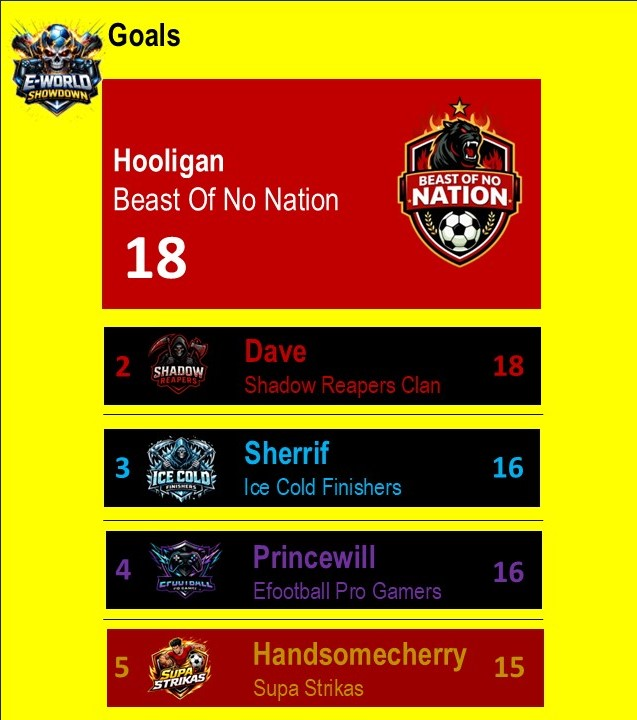
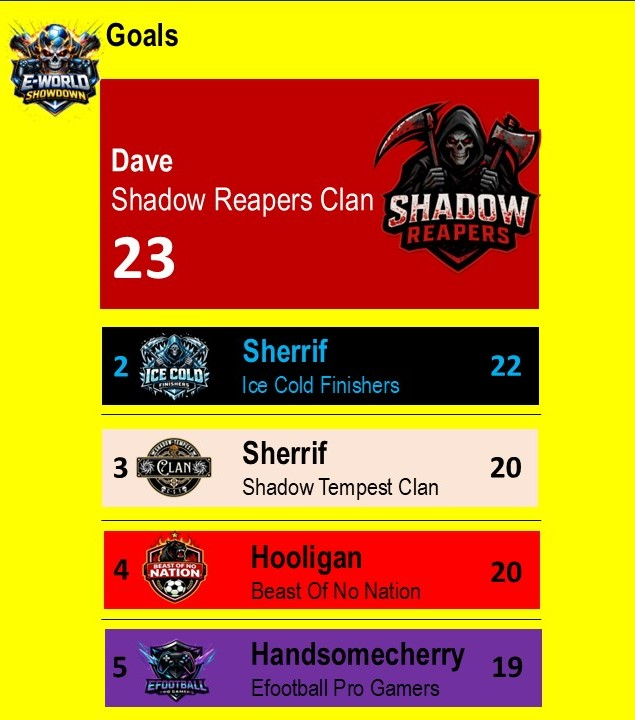
Round 5 update

diff --git a/index.html b/index.html
@@ -56,7 +56,7 @@
             <h2>About Us</h2>
             <p>Welcome to the heart of E-World Showdown! Established in 2026, our community thrives on top-notch performance, competitive spirit, and camaraderie. Here, every player whether console, PC, or mobile is more than a participant; you’re part of a family redefining the virtual pitch.
             </p> 
-            <a href="https://drive.google.com/file/d/1cS-hUSyMLtVGQsQ_poRHIG36GtPK3jHi/view?usp=drivesdk">Rules</a>
+            <a href="https://drive.google.com/file/d/1JIwCimv4c6YHbLsE_yXvg0V1YZvRlwsi/view?usp=drive_link">Rules</a>
     </div>
     </div>
 
@@ -134,7 +134,7 @@
                     <div class="league-scroll">
                         <img src="images/tournaments/tournament stats/League Table.jpg">
                         <img src="images/tournaments/tournament stats/Goals.jpg">
-                        <img src="images/tournaments/tournament stats/Round 5.jpg">
+                        <img src="images/tournaments/tournament stats/Round 5 and 6.jpg">
                         <img src="images/tournaments/tournament stats/Round 3 and 4.jpg">
                         <img src="images/tournaments/tournament stats/Round 1 and 2.jpg">
                     </div>
